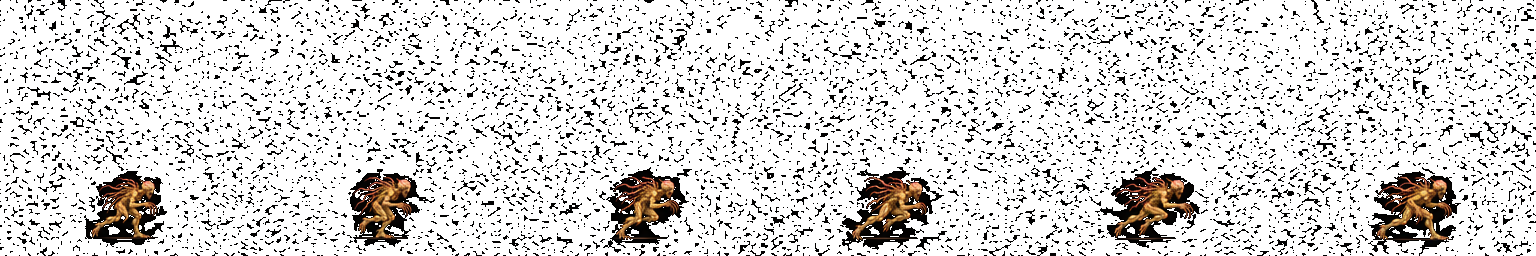
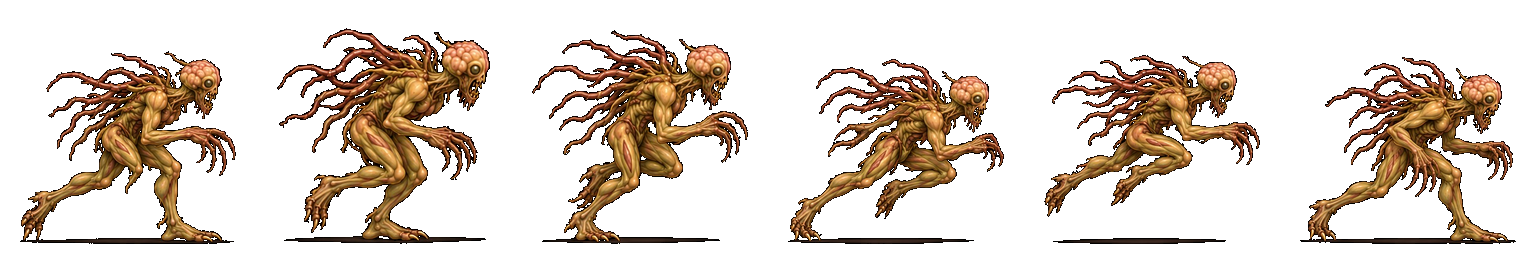
Normalize Swarmling non-Run scale to Run

diff --git a/src/procedural-swarmling-preview.js b/src/procedural-swarmling-preview.js
@@ -24,7 +24,7 @@ let manifest,animation,sourceAtlas=null,playing=true,start=performance.now(),off
 const boundsCache=new WeakMap();
 const sourceCellCache=new Map();
 const imageCache=new Map();
-const runAnchors=[[128,238],[126,238],[126,239],[115,239],[122,239],[135,240]];
+const runAnchors=[[134,243],[128,242],[118,242],[110,243],[114,243],[132,243]];
 const clamp=v=>Math.max(0,Math.min(1,v));
 const smooth=t=>{t=clamp(t);return t*t*(3-2*t)};
 const lerp=(a,b,t)=>a+(b-a)*t;
